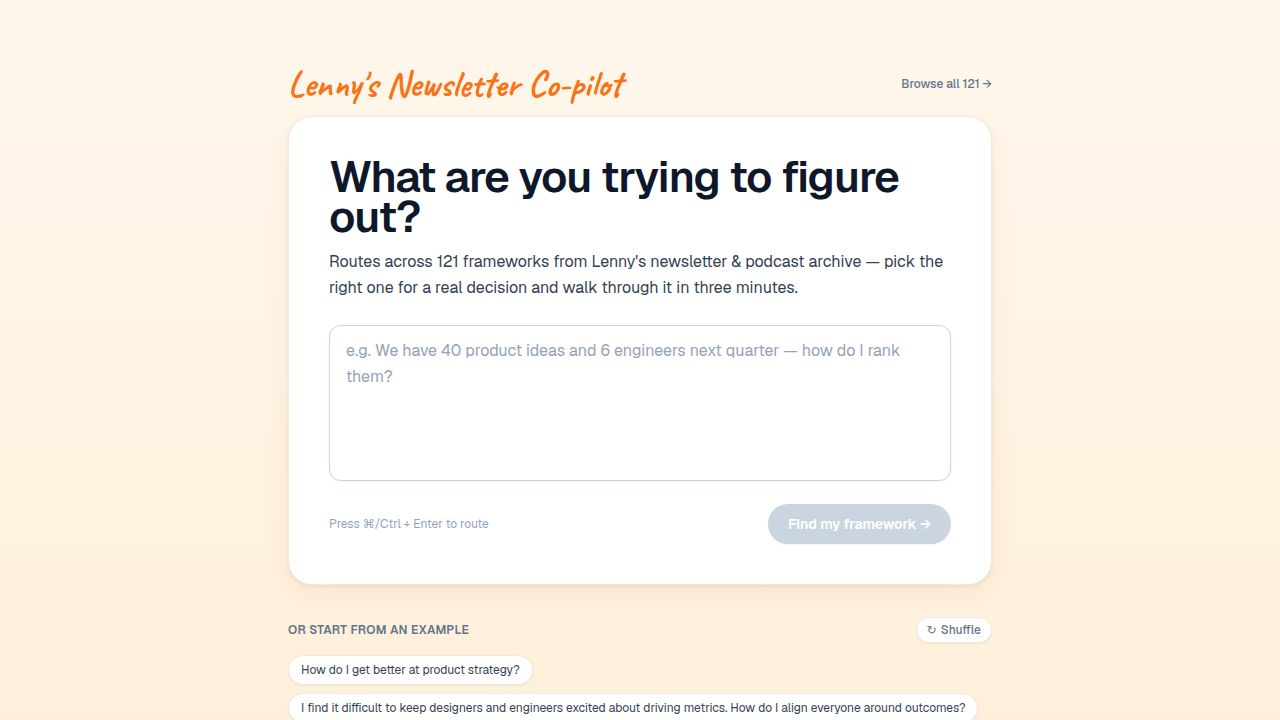
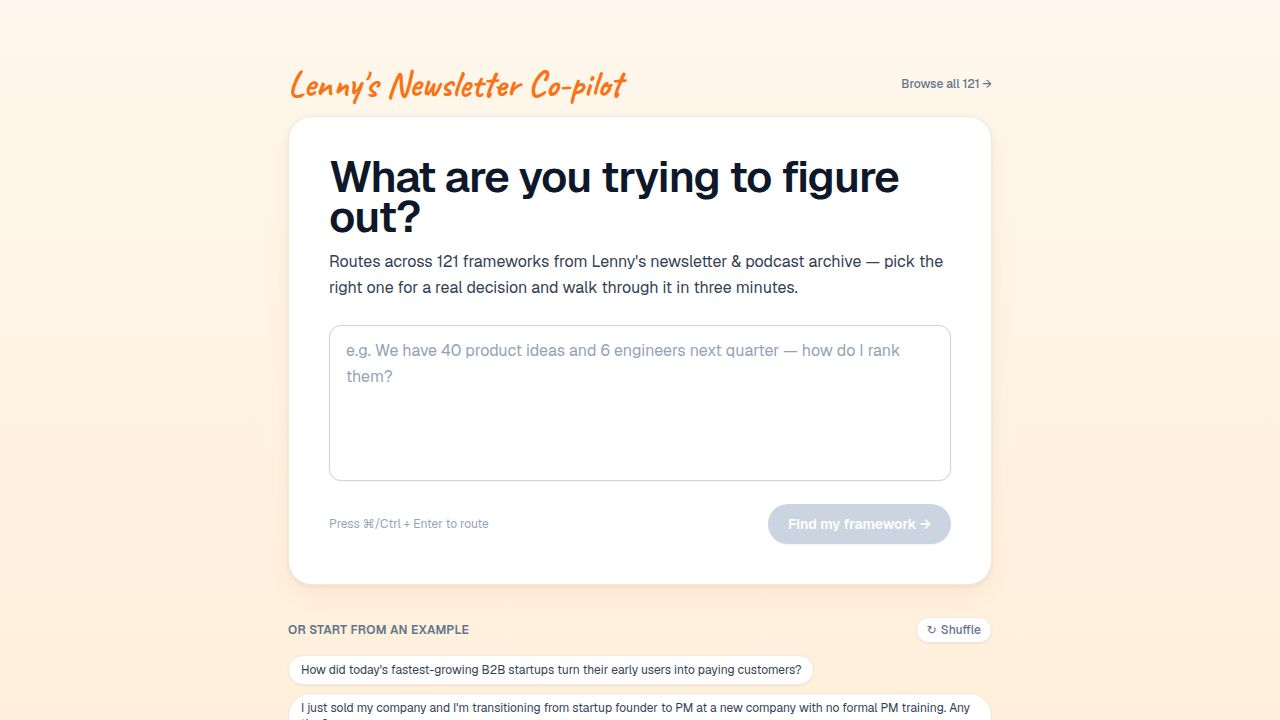
Update footer to match website background color
Remove top border from footer element in src/app/layout.tsx to blend with cream background.

Replit-Commit-Author: Agent
Replit-Commit-Session-Id: 904a26f6-1360-4a34-8e70-0acd6aa82926
Replit-Commit-Checkpoint-Type: full_checkpoint
Replit-Commit-Event-Id: fb2adf59-00b6-4935-a9fa-186120dd5c32
Replit-Commit-Screenshot-Url: https://storage.googleapis.com/screenshot-production-us-central1/a89ef750-2d96-49cd-a6c0-410d52498d9a/904a26f6-1360-4a34-8e70-0acd6aa82926/nHcKHOi
Replit-Helium-Checkpoint-Created: true

Changed region(s): [[0.2188, 0.8861, 0.7812, 1.0]]

diff --git a/artifacts/lenny-copilot/src/app/layout.tsx b/artifacts/lenny-copilot/src/app/layout.tsx
@@ -42,7 +42,7 @@ export default function RootLayout({
          * builder credit + author link. Subtle styling so it never competes
          * with page content; lives at the bottom of every route.
          */}
-        <footer className="border-t border-border-warm bg-cream py-4 text-center">
+        <footer className="bg-cream py-4 text-center">
           <p className="text-xs text-ink-subtle">
             Built by{" "}
             <a